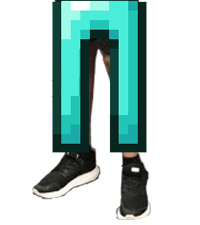
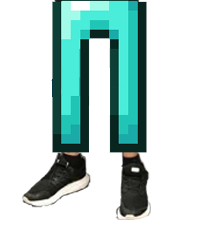
custom head & cowboy sammy & update mc sammy legs

Changed region(s): [[0.09, 0.1556, 0.57, 0.9333], [0.24, 0.3422, 0.27, 0.4356], [0.27, 0.7778, 0.3, 0.8089]]

diff --git a/index.js b/index.js
@@ -5,7 +5,8 @@ const sammies = [
     'sales-associate',
     'nurse',
     'scientist',
-    'minecraft'
+    'minecraft',
+    'cowboy'
 ];
 
 const currentSammy = {
@@ -14,7 +15,10 @@ const currentSammy = {
     legs: 0
 };
 
+let customHead = false;
+
 const changeSammy = (bodyParts = [ 'head', 'body', 'legs' ]) => {
+    customHead = false;
     bodyParts.forEach(part => {
         const element = document.getElementById(`sammy-${part}`);
         element.src = `assets/sammies/${sammies[currentSammy[part]]}/${part}.png`;
@@ -43,9 +47,28 @@ const changeSammy = (bodyParts = [ 'head', 'body', 'legs' ]) => {
 const headInput = document.getElementById('input-head');
 
 headInput.addEventListener('input', () => {
-    if (!headInput.value || headInput.value == '')
+    if (!headInput.value || headInput.value == '') {
+        customHead = false
         return changeSammy([ 'head' ]);
+    }
 
     const element = document.getElementById('sammy-head');
     element.src = window.URL.createObjectURL(headInput.files[0]);
+    customHead = true;
 });
+
+const randomizeButton = document.getElementById('randomize');
+
+randomizeButton.addEventListener('click', () => {
+    if (!customHead) {
+        currentSammy.head = Math.floor(Math.random() * sammies.length);
+        changeSammy([ 'head' ]);
+    }
+
+    currentSammy.body = Math.floor(Math.random() * sammies.length);
+    currentSammy.legs = Math.floor(Math.random() * sammies.length);
+
+    changeSammy([ 'body', 'legs' ]);
+});
+
+// TODO: make randomize not randomize if custom head

diff --git a/index.css b/index.css
@@ -2,10 +2,18 @@ body {
     background-color: var(--bs-dark);
 }
 
-#main {
+#main, #bottom {
     height: 100%;
     width: 100%;
     display: flex;
+    justify-content: center;
+    align-items: center;
+    padding-top: 2rem;
+}
+
+#bottom div {
+    width: 80%;
+    display: grid;
     justify-content: center;
     align-items: center;
 }
@@ -52,7 +60,8 @@ body {
 }
 
 #arrow-left img:active,
-#arrow-right img:active {
+#arrow-right img:active,
+#randomize:active {
     background-color: rgb(0, 96, 185);
 }
 
@@ -73,4 +82,13 @@ body {
 
 input[type=file], label {
     color: #fff;
+}
+
+#randomize {
+    background-color: rgb(0, 132, 255);
+    border-radius: 10%;
+    height: 100%;
+    width: 60%;
+    display: flex;
+    margin: 0 auto;
 }

diff --git a/index.html b/index.html
@@ -57,7 +57,15 @@
                 </a>
             </div>
     </div>
-    <label for="input-head">Choose a custom head</label>
-    <input type="file" id="input-head" name="head" accept="image/*">
+    <div id="bottom">
+        <div id="custom-head">
+            <label for="input-head">Choose a custom head</label>
+            <input type="file" id="input-head" name="head" accept="image/*">
+        </div>
+
+        <div id="randomizer">
+            <a><img id="randomize" src="assets/randomize.png" alt="randomize"></a>
+        </div>
+    </div>
 </body>
 </html>
